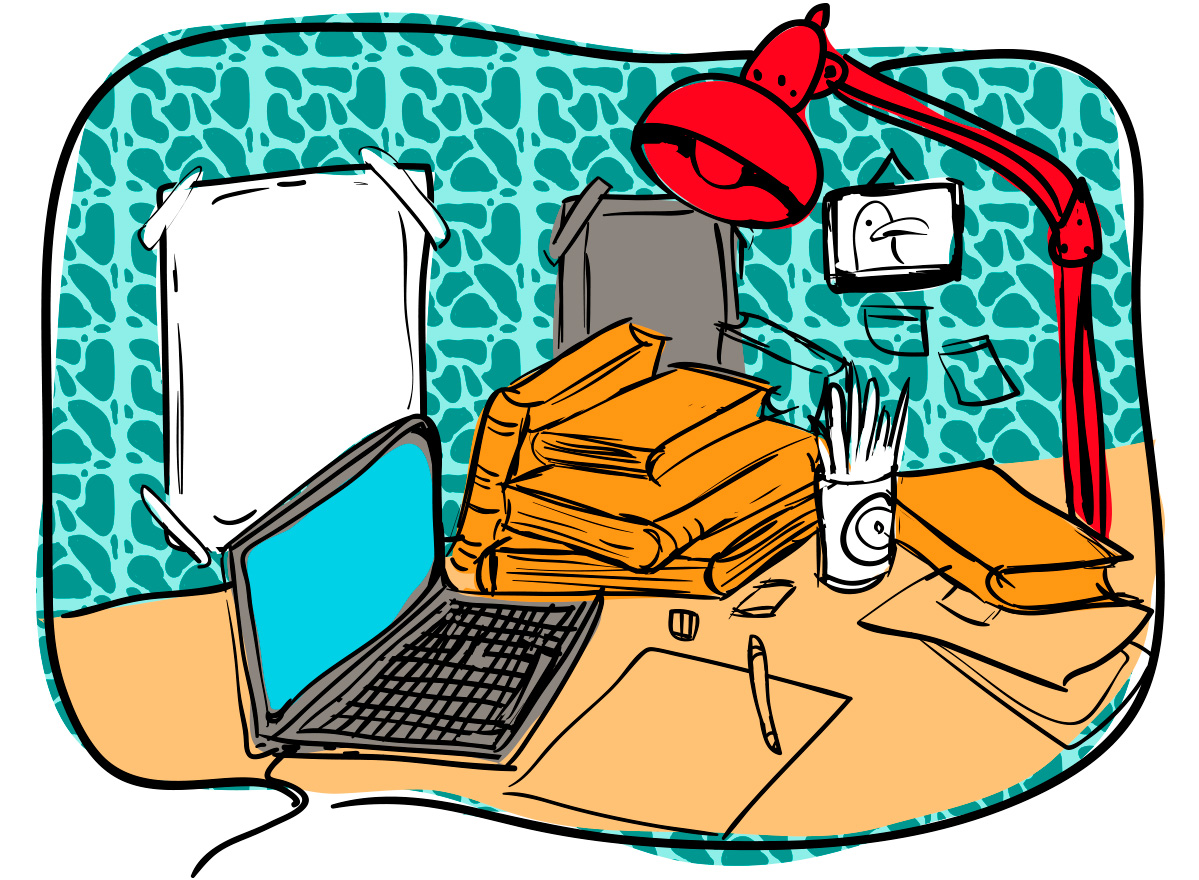
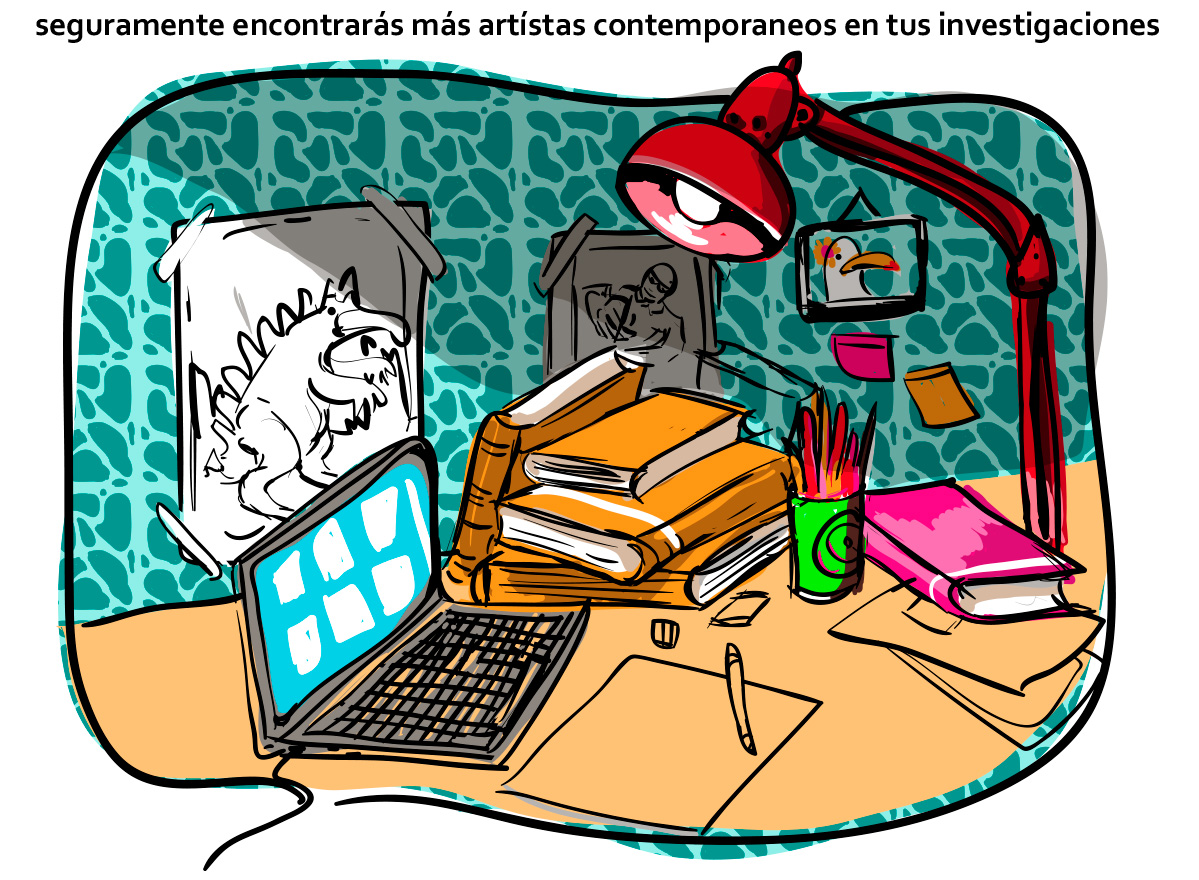
Nuevo comic artes plásticas

diff --git a/aula/wp-content/themes/aulavirtual/js/artes_plasticas.js b/aula/wp-content/themes/aulavirtual/js/artes_plasticas.js
@@ -106,6 +106,11 @@ jQuery(document).ready(function($){
 		}
 
 		if($(this).attr("id") == "img-color"){
+			if($(this).data("ejercicio") == "comic"){
+				$("#img-comic").attr("src", $("#bloginfo").val() + "/artes_plasticas/images/color/img_viñeta_1.jpg");
+				$("#btns-mover-comic img").data("comic", "color");
+				$("#btns-mover-comic img").data("total", "14");
+			}
 			if($(this).data("ejercicio") == "ejercicio"){
 				$($("#div-ejercicios div")[1]).html("").html("PLANOS DE COLOR");
 				$("#div-ejercicios img").not(".img-atras").attr("src", $("#bloginfo").val() + "/artes_plasticas/images/submodulos/img_color.png");
@@ -154,7 +159,7 @@ jQuery(document).ready(function($){
 				$("#div-ejercicios").show();
 			}
 		}
-		if($(this).attr("id") == "img-brujula" || $(this).attr("id") == "img-creatividad" || $(this).attr("id") == "img-linea"){
+		if($(this).attr("id") == "img-brujula" || $(this).attr("id") == "img-creatividad" || $(this).attr("id") == "img-linea" || $(this).attr("id") == "img-color"){
 			if($(this).data("ejercicio") == "comic"){
 				$("#div-comic").show();
 				num_pag = 1;

diff --git a/aula/wp-content/themes/aulavirtual/index.php b/aula/wp-content/themes/aulavirtual/index.php
@@ -37,7 +37,7 @@
               </a>
             </div>
             <div>
-              <a href="#">
+              <a href="<?php bloginfo('url'); ?>/introduccion-aula-artes-plasticas">
                 <img src="<?php bloginfo('template_url'); ?>/index/normal_plasticas.png" id="img-plasticas" width="120px">
                 <span>Artes<br>plásticas</span>
               </a>
